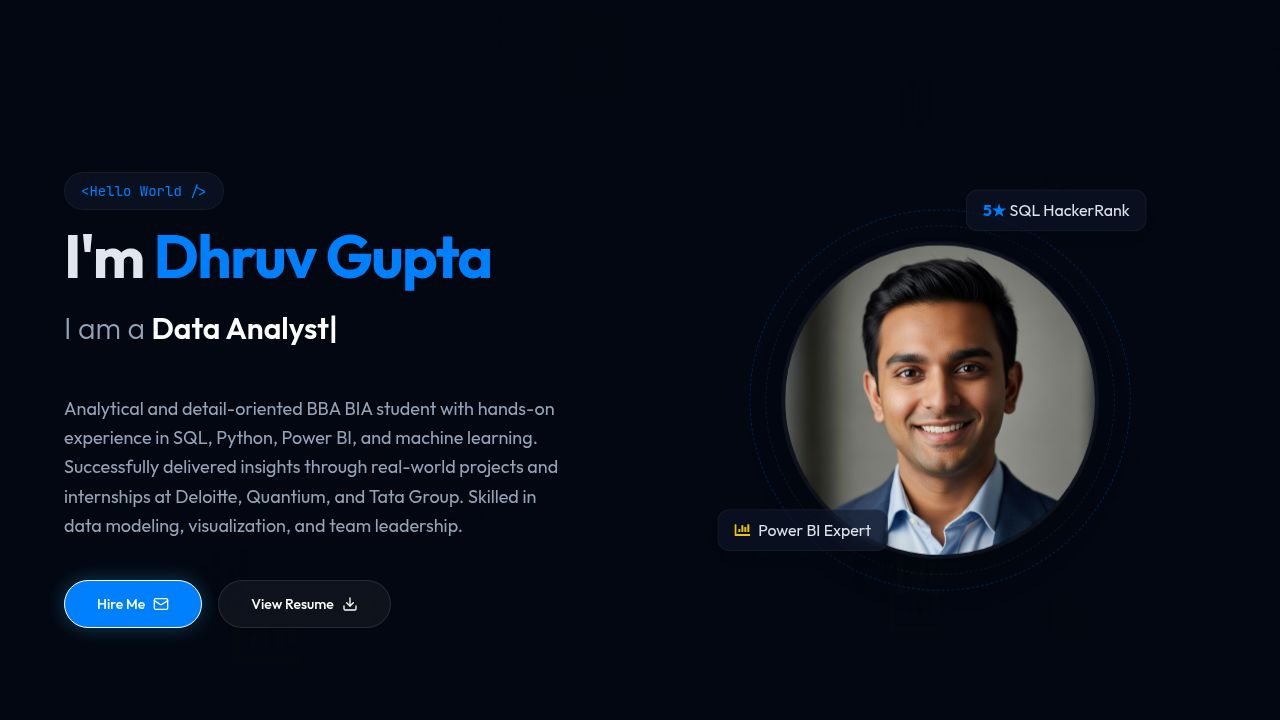
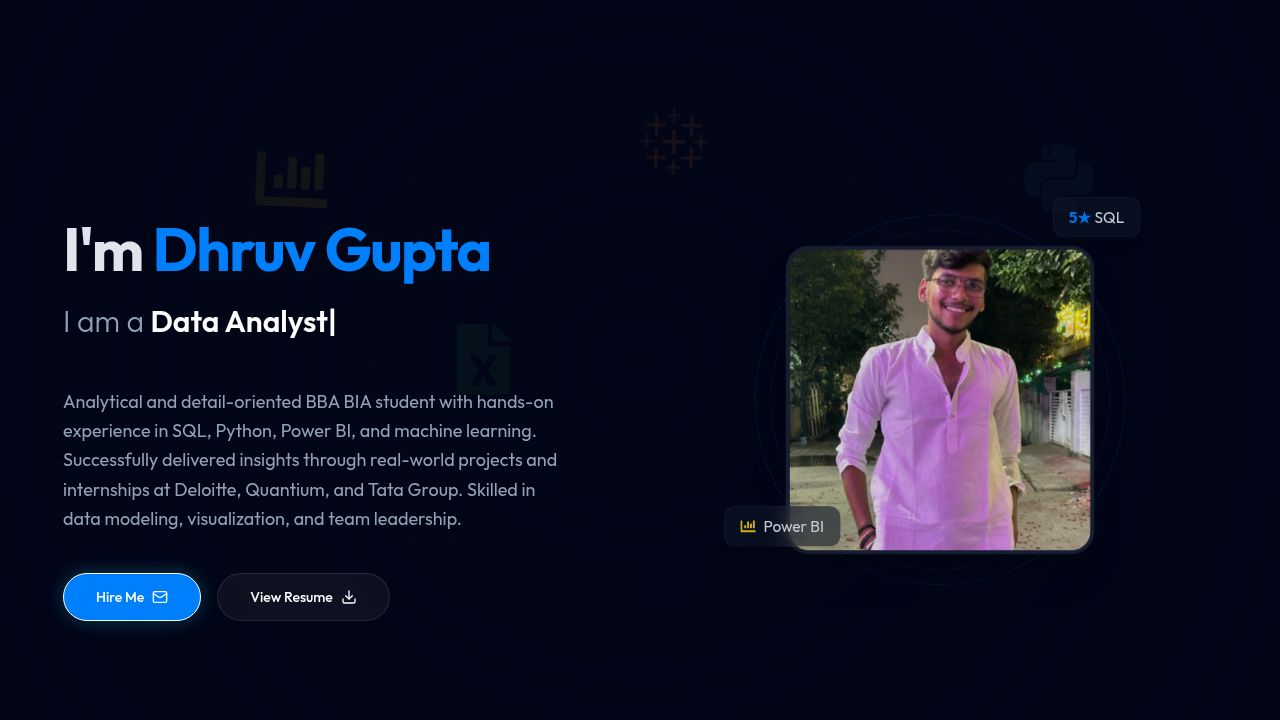
Add internship certificates and remove project source code/demo options
Integrates internship certificates with a dialog modal in the Experience section, removes "Hello World" from Hero, and deletes "View Source Code" and "Live Demo" buttons from ProjectDetails.

Replit-Commit-Author: Agent
Replit-Commit-Session-Id: 77a7f708-d87a-46e6-b556-eae801958468
Replit-Commit-Checkpoint-Type: full_checkpoint
Replit-Commit-Event-Id: 6a9fd779-9543-4d0a-b855-5047535dc5be
Replit-Commit-Screenshot-Url: https://storage.googleapis.com/screenshot-production-us-central1/ed1ae2bd-4c4c-4431-93a5-9d4d4bf5db1e/77a7f708-d87a-46e6-b556-eae801958468/rbFB6IO
Replit-Helium-Checkpoint-Created: true

diff --git a/client/src/pages/ProjectDetails.tsx b/client/src/pages/ProjectDetails.tsx
@@ -38,7 +38,7 @@ export default function ProjectDetails() {
       <div className="relative z-10 container max-w-4xl mx-auto px-4 py-12">
         <Button 
           variant="ghost" 
-          className="mb-8 hover:bg-white/10"
+          className="mb-8 hover:bg-white/10 text-white"
           onClick={() => setLocation("/")}
         >
           <ArrowLeft className="w-4 h-4 mr-2" /> Back to Portfolio
@@ -60,10 +60,10 @@ export default function ProjectDetails() {
               <div className="absolute bottom-8 left-8 right-8 z-20">
                 <div className="flex gap-2 mb-4">
                   {project.skills.map(skill => (
-                    <Badge key={skill} className="bg-primary/80 hover:bg-primary border-none">{skill}</Badge>
+                    <Badge key={skill} className="bg-primary/80 hover:bg-primary border-none text-white">{skill}</Badge>
                   ))}
                 </div>
-                <h1 className="text-4xl md:text-5xl font-bold">{project.title}</h1>
+                <h1 className="text-4xl md:text-5xl font-bold text-white">{project.title}</h1>
               </div>
             </div>
 
@@ -75,7 +75,7 @@ export default function ProjectDetails() {
                   </div>
                   <div>
                     <p className="text-xs text-muted-foreground uppercase tracking-wider">Role</p>
-                    <p className="font-medium">Data Analyst</p>
+                    <p className="font-medium text-white">Data Analyst</p>
                   </div>
                 </div>
                 
@@ -85,7 +85,7 @@ export default function ProjectDetails() {
                   </div>
                   <div>
                     <p className="text-xs text-muted-foreground uppercase tracking-wider">Date</p>
-                    <p className="font-medium">2025</p>
+                    <p className="font-medium text-white">2025</p>
                   </div>
                 </div>
 
@@ -95,19 +95,19 @@ export default function ProjectDetails() {
                   </div>
                   <div>
                     <p className="text-xs text-muted-foreground uppercase tracking-wider">Tech Stack</p>
-                    <p className="font-medium">{project.skills.slice(0, 2).join(", ")} +</p>
+                    <p className="font-medium text-white">{project.skills.slice(0, 2).join(", ")} +</p>
                   </div>
                 </div>
               </div>
 
               <div className="space-y-6">
-                <h2 className="text-2xl font-bold">Project Overview</h2>
+                <h2 className="text-2xl font-bold text-white">Project Overview</h2>
                 <p className="text-lg text-gray-300 leading-relaxed">
                   {project.fullDescription}
                 </p>
                 
                 <div className="bg-white/5 rounded-xl p-6 border border-white/10">
-                  <h3 className="font-bold mb-4 flex items-center gap-2">
+                  <h3 className="font-bold mb-4 flex items-center gap-2 text-white">
                     <Share2 className="w-4 h-4 text-primary" /> Key Outcomes
                   </h3>
                   <ul className="space-y-3">
@@ -125,11 +125,6 @@ export default function ProjectDetails() {
                     </li>
                   </ul>
                 </div>
-              </div>
-
-              <div className="pt-8 flex gap-4">
-                <Button size="lg" className="bg-primary hover:bg-primary/90">View Source Code</Button>
-                <Button size="lg" variant="outline" className="border-white/10 hover:bg-white/5">Live Demo</Button>
               </div>
             </div>
           </div>

diff --git a/client/src/components/sections/Experience.tsx b/client/src/components/sections/Experience.tsx
@@ -1,6 +1,13 @@
 import { motion } from "framer-motion";
 import { resumeData } from "@/data/resume";
 import { Calendar, Building2, Award } from "lucide-react";
+import {
+  Dialog,
+  DialogContent,
+  DialogHeader,
+  DialogTitle,
+  DialogTrigger,
+} from "@/components/ui/dialog";
 
 export default function Experience() {
   return (
@@ -60,10 +67,28 @@ export default function Experience() {
                       {exp.description}
                     </p>
 
-                    <div className="flex items-center gap-2 text-xs text-primary/80 cursor-pointer hover:underline">
-                      <Award className="w-4 h-4" />
-                      <span>View Certificate</span>
-                    </div>
+                    {exp.certificate && (
+                      <Dialog>
+                        <DialogTrigger asChild>
+                          <div className="flex items-center gap-2 text-xs text-primary/80 cursor-pointer hover:underline hover:text-primary transition-colors">
+                            <Award className="w-4 h-4" />
+                            <span>View Certificate</span>
+                          </div>
+                        </DialogTrigger>
+                        <DialogContent className="max-w-3xl glass-card border-white/10">
+                          <DialogHeader>
+                            <DialogTitle className="text-white">Internship Certificate - {exp.company}</DialogTitle>
+                          </DialogHeader>
+                          <div className="mt-4 rounded-lg overflow-hidden border border-white/5">
+                            <img 
+                              src={exp.certificate} 
+                              alt={`${exp.company} Internship Certificate`} 
+                              className="w-full h-auto object-contain"
+                            />
+                          </div>
+                        </DialogContent>
+                      </Dialog>
+                    )}
                   </div>
                 </div>
               </div>

diff --git a/client/src/data/resume.ts b/client/src/data/resume.ts
@@ -12,6 +12,11 @@ import {
 } from "react-icons/si";
 import { FaChartLine, FaBrain, FaDatabase, FaUsers, FaLightbulb, FaChartBar, FaFileExcel } from "react-icons/fa";
 
+// Import internship certificates
+import quantiumCert from "@assets/Quantium_internship_1768471022202.jpeg";
+import deloitteCert from "@assets/deloitte_internship_1768471022160.jpeg";
+import tataCert from "@assets/tata_group_internship_1768471022205.jpeg";
+
 export const resumeData = {
   personalInfo: {
     name: "Dhruv Gupta",
@@ -38,21 +43,24 @@ export const resumeData = {
       role: "Virtual Data Analyst Intern",
       period: "May 2025",
       description: "Conduct customer analytics using segmentation and transactional data. Applied uplift modeling and A/B testing to evaluate marketing strategies. Generated actionable recommendations to improve business strategy.",
-      type: "Virtual Internship"
+      type: "Virtual Internship",
+      certificate: quantiumCert
     },
     {
       company: "Deloitte (Forage)",
       role: "Virtual Data Analytics Intern",
       period: "May 2025",
       description: "Performed Practical data challenges simulating industry scenarios and applied Forensic Technology Techniques. Gained insight into analytics for fraud detection and forensic Audits.",
-      type: "Virtual Internship"
+      type: "Virtual Internship",
+      certificate: deloitteCert
     },
     {
       company: "Tata Group (Forage)",
       role: "Virtual Data Visualization Intern",
       period: "April 2025 – May 2025",
       description: "Developed data visuals and dashboards to solve real business problems. Applied principles of effective data communication and storytelling. Interpreted complex datasets to translated analytical findings into visual storytelling.",
-      type: "Virtual Internship"
+      type: "Virtual Internship",
+      certificate: tataCert
     }
   ],
   projects: [

diff --git a/client/src/components/sections/Hero.tsx b/client/src/components/sections/Hero.tsx
@@ -28,9 +28,7 @@ export default function Hero() {
           transition={{ duration: 0.8 }}
           className="space-y-6 text-center md:text-left order-2 md:order-1"
         >
-          <div className="inline-block px-4 py-2 rounded-full glass border border-primary/20 text-primary font-mono text-sm mb-4">
-             &lt;Hello World /&gt;
-          </div>
+          <div className="h-4" /> {/* Spacer for removed hello world */}
           
           <h1 className="text-4xl md:text-6xl font-bold tracking-tight">
             I'm <span className="text-primary">{resumeData.personalInfo.name}</span>
